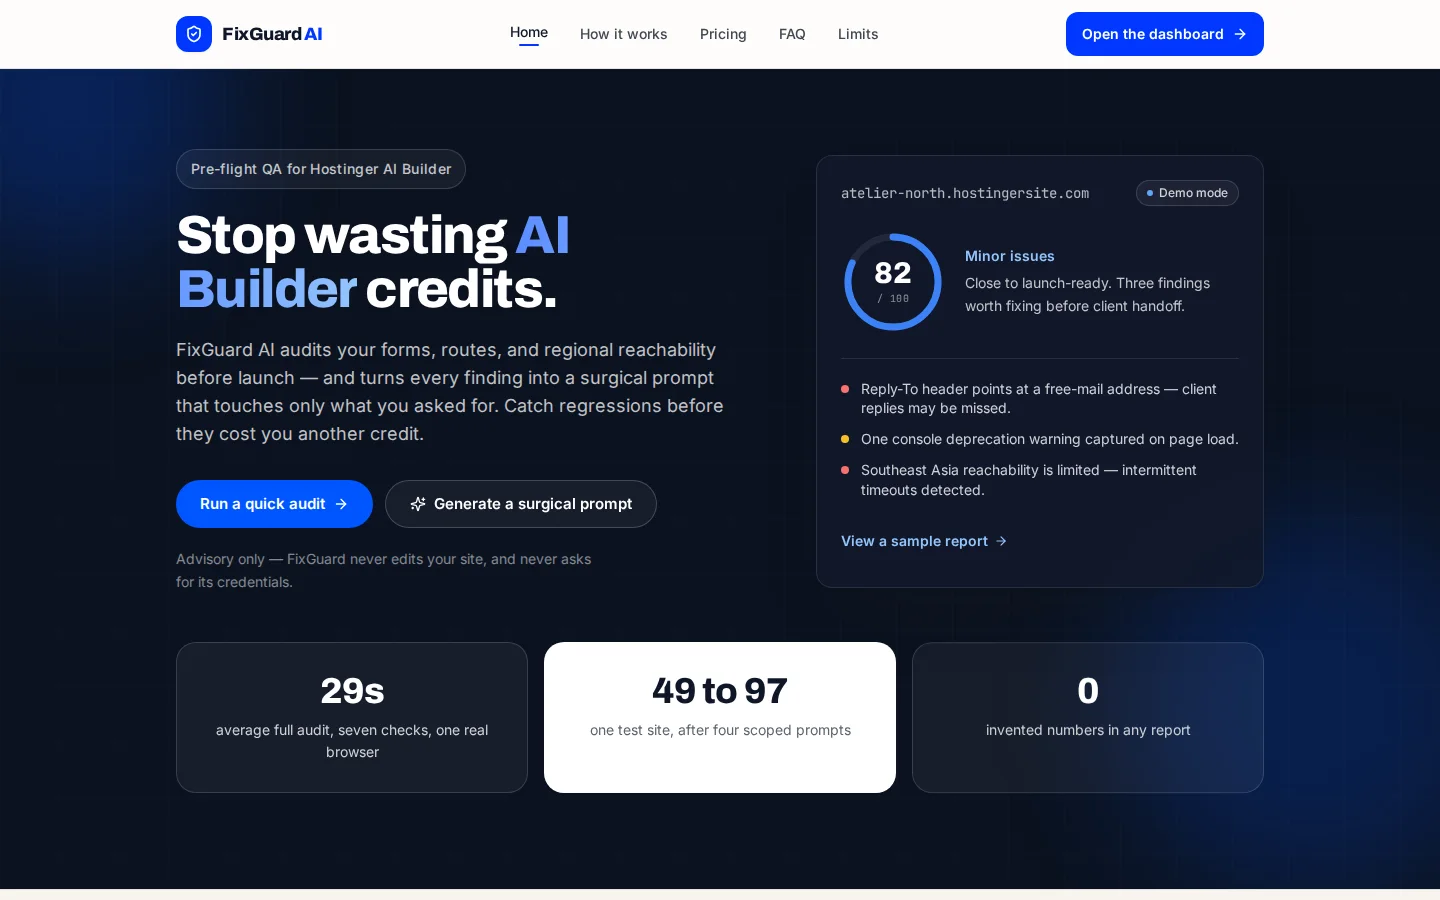
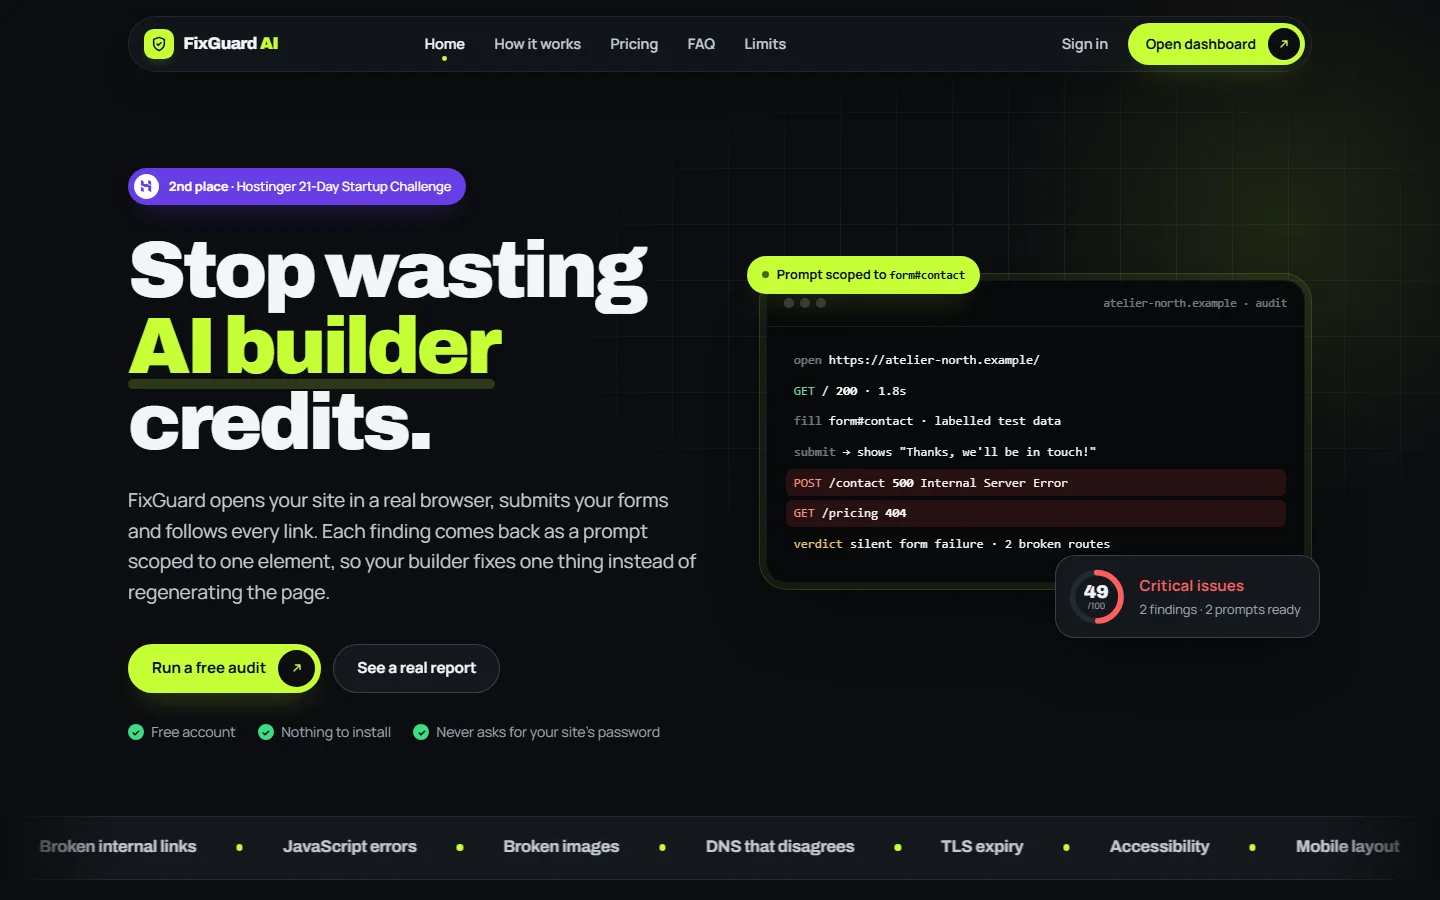
Show FixGuard's current landing page and note the move off AI Builder
The FixGuard capture is replaced with the live first screen of
fixguardai.online after its redesign: the dark night-and-lime palette,
the audit console and the Hostinger award chip, taken with a real
browser at 1440px once the intro animation has finished.

The case study gains a decision: the landing page moved from Hostinger
AI Builder into the product's own repository as a static site with its
own container, so the whole product deploys together and its copy no
longer overstates what the product does.

diff --git a/src/data/products.ts b/src/data/products.ts
@@ -107,6 +107,11 @@ export const products: Product[] = [
           detail:
             "Redis, a job queue, a separate browser worker and an ORM all came out. One process, one semaphore capping it at one browser, plain SQLite. Chromium plus a second runtime on a small box swaps, and a QA tool that falls over is worse than none.",
         },
+        {
+          title: "The marketing site, brought in-house.",
+          detail:
+            "The first landing page was generated with Hostinger AI Builder for the challenge. After the result it moved into the same repository as a static site with its own nginx container on the same VPS: one deploy for the whole product, the dashboard's security headers, and copy corrected wherever it promised more than the product does.",
+        },
       ],
       built: [
         {
